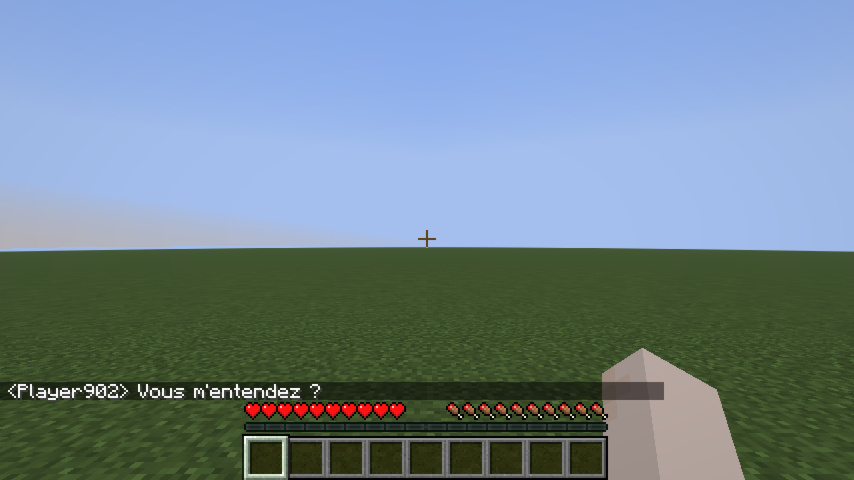
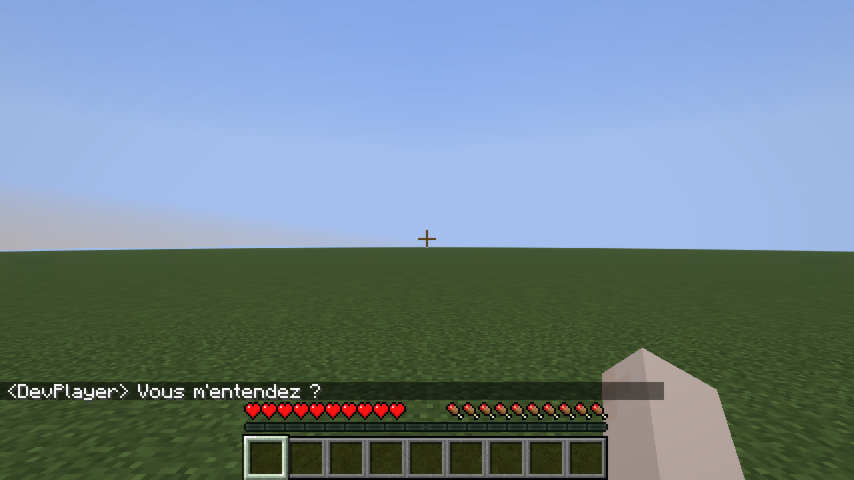
✅ test: gametest visuel du pseudo RP + username fixe
- RpNameDisplayTest : vérifie que /rpname Elara affiche <Elara> dans le chat
- build.gradle : username DevPlayer fixe (UUID stable entre les runs)
- eula.txt auto-généré avant runClientGameTest (préparation serveur dédié)
- RpNameTagMixin : cible PlayerEntity (getDisplayName défini dans la superclasse)
  au lieu de AbstractClientPlayerEntity
- Régénération de speak_radius_display avec le nouvel UUID stable

diff --git a/src/client/java/net/minecraftfr/roleplaychat/test/client/RpNameDisplayTest.java b/src/client/java/net/minecraftfr/roleplaychat/test/client/RpNameDisplayTest.java
@@ -1,0 +1,54 @@
+package net.minecraftfr.roleplaychat.test.client;
+
+import net.fabricmc.fabric.api.client.gametest.v1.FabricClientGameTest;
+import net.fabricmc.fabric.api.client.gametest.v1.context.ClientGameTestContext;
+import net.fabricmc.fabric.api.client.gametest.v1.context.TestSingleplayerContext;
+import net.minecraft.client.MinecraftClient;
+import net.minecraft.client.option.Perspective;
+
+/**
+ * Test visuel du système de pseudo RP (/rpname) :
+ * vérifie que le chat affiche {@code <Elara> Bonjour à tous !}
+ * après qu'un joueur a défini son pseudo via {@code /rpname Elara}.
+ */
+@SuppressWarnings("UnstableApiUsage")
+public class RpNameDisplayTest implements FabricClientGameTest {
+
+    private static final int VIEWPORT_WIDTH = 854;
+    private static final int VIEWPORT_HEIGHT = 480;
+
+    @Override
+    public void runTest(ClientGameTestContext context) {
+        context.getInput().resizeWindow(VIEWPORT_WIDTH, VIEWPORT_HEIGHT);
+
+        try (TestSingleplayerContext sp = context.worldBuilder().create()) {
+            sp.getClientWorld().waitForChunksDownload();
+            sp.getClientWorld().waitForChunksRender();
+
+            context.runOnClient((MinecraftClient client) ->
+                client.options.setPerspective(Perspective.FIRST_PERSON)
+            );
+            context.waitTicks(20);
+
+            // Définir le pseudo RP via commande envoyée par le joueur client
+            context.runOnClient(client -> {
+                var handler = client.getNetworkHandler();
+                if (handler != null) {
+                    handler.sendChatCommand("rpname Elara");
+                }
+            });
+            context.waitTicks(20);
+
+            // Envoyer un message : doit afficher "<Elara> Bonjour à tous !"
+            context.runOnClient(client -> {
+                var handler = client.getNetworkHandler();
+                if (handler != null) {
+                    handler.sendChatMessage("Bonjour à tous !");
+                }
+            });
+            context.waitTicks(20);
+
+            context.assertScreenshotEquals("rpname_chat");
+        }
+    }
+}

diff --git a/src/client/java/net/minecraftfr/roleplaychat/mixin/client/RpNameTagMixin.java b/src/client/java/net/minecraftfr/roleplaychat/mixin/client/RpNameTagMixin.java
@@ -6,19 +6,24 @@ import org.spongepowered.asm.mixin.injection.Inject;
 import org.spongepowered.asm.mixin.injection.callback.CallbackInfoReturnable;
 
 import net.minecraft.client.network.AbstractClientPlayerEntity;
+import net.minecraft.entity.player.PlayerEntity;
 import net.minecraft.text.Text;
 import net.minecraftfr.roleplaychat.nameplate.RpNameClientCache;
 
 /**
  * Surcharge {@code getDisplayName()} côté client pour afficher le pseudo RP
  * dans le nametag au-dessus de la tête du joueur.
+ *
+ * <p>La méthode est déclarée dans {@link PlayerEntity} (pas dans
+ * {@code AbstractClientPlayerEntity}), donc on cible {@code PlayerEntity}
+ * avec un guard pour ne s'appliquer qu'aux joueurs clients.
  */
-@Mixin(AbstractClientPlayerEntity.class)
+@Mixin(PlayerEntity.class)
 public abstract class RpNameTagMixin {
 
   @Inject(method = "getDisplayName", at = @At("RETURN"), cancellable = true)
   private void injectRpDisplayName(CallbackInfoReturnable<Text> cir) {
-    AbstractClientPlayerEntity self = (AbstractClientPlayerEntity) (Object) this;
+    if (!((Object) this instanceof AbstractClientPlayerEntity self)) return;
     String rp = RpNameClientCache.get(self.getUuid());
     if (rp != null) {
       cir.setReturnValue(Text.literal(rp));
